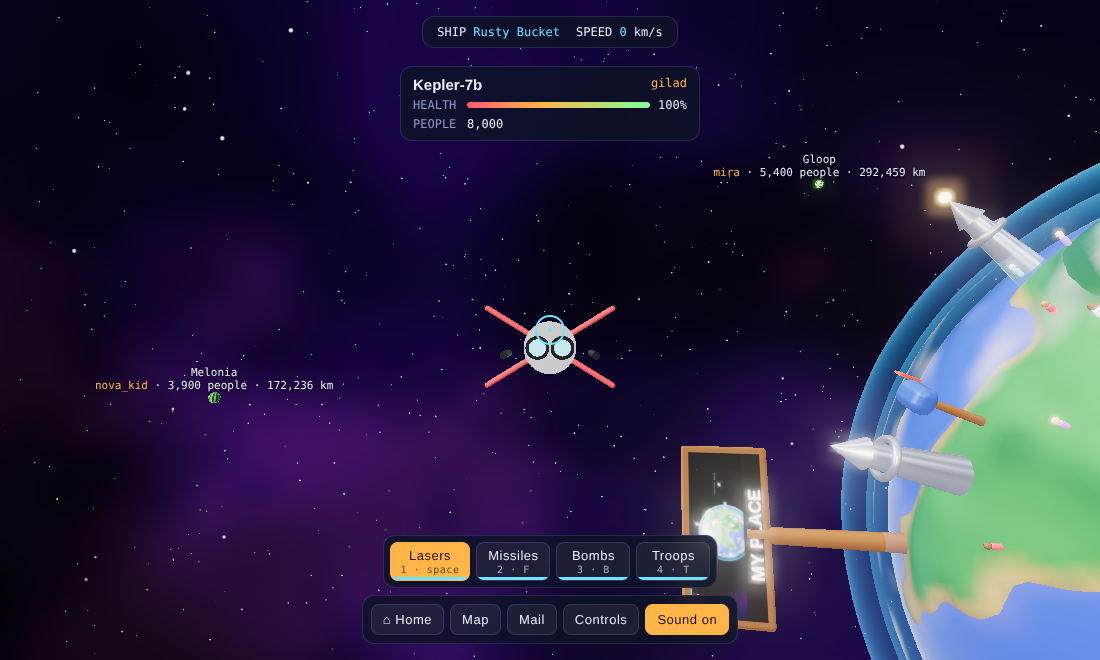
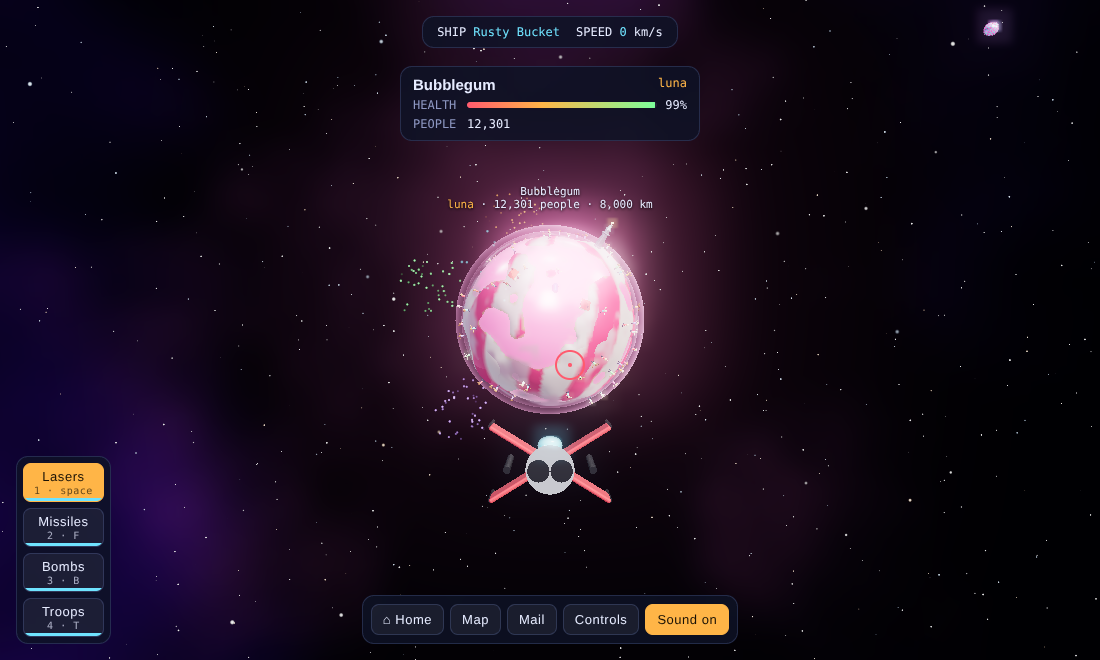
Ship higher on screen, weapons bar bottom-left, flight help on the right
Claude-Session: https://claude.ai/code/session_01C8YoLFqAawXFtS9Kv7wpoQ

diff --git a/game/index.html b/game/index.html
@@ -122,11 +122,11 @@ input[type=range] { width: 100%; accent-color: var(--accent); }
 #crosshair::after { inset: 13px; background: var(--cyan); border: none; }
 #crosshair.lock::before { border-color: var(--danger); }
 #crosshair.lock::after { background: var(--danger); }
-#weapons { left: 16px; right: 16px; margin-inline: auto; width: max-content; max-width: calc(100% - 32px); flex-wrap: wrap; justify-content: center; bottom: calc(72px + env(safe-area-inset-bottom, 0px)); padding: 6px; display: flex; gap: 6px; }
+#weapons { left: 16px; flex-direction: column; bottom: calc(16px + env(safe-area-inset-bottom, 0px)); padding: 6px; display: flex; gap: 6px; }
 #weapons button { position: relative; overflow: hidden; display: grid; gap: 1px; padding: 5px 10px; text-align: center; min-width: 74px; }
 #weapons button small { font: 10px var(--mono); color: inherit; opacity: .7; }
 #weapons .cd { position: absolute; left: 0; bottom: 0; height: 3px; background: var(--cyan); }
-#p-help { left: 16px; bottom: calc(80px + env(safe-area-inset-bottom, 0px)); width: 250px; }
+#p-help { right: 16px; bottom: calc(80px + env(safe-area-inset-bottom, 0px)); width: 250px; }
 .keys { display: grid; grid-template-columns: auto 1fr; gap: 4px 10px; font-size: 12px; }
 kbd { font: 11px var(--mono); padding: 1px 6px; border-radius: 4px; border: 1px solid var(--line); background: rgba(255,255,255,.06); justify-self: start; }
 #pad { position: fixed; z-index: 2; right: 16px; bottom: calc(140px + env(safe-area-inset-bottom, 0px)); display: none; grid-template-columns: repeat(2, 64px); gap: 6px; }
@@ -2063,7 +2063,7 @@ function flyStep(dt) {
   const boost = k("ShiftLeft") || k("ShiftRight"), size = state.ship.size, thrust = k("KeyW");
   // steering: the further the cursor is from the middle, the faster you turn toward it
   const dz = .05, axis = (v) => Math.sign(v) * Math.min(1, Math.max(0, Math.abs(v) - dz) / (1 - dz - .05));
-  const sx = axis(aimNdc.x), sy = axis(aimNdc.y + .18); // +.18: the ship sits low, so its "straight ahead" is a bit above it
+  const sx = axis(aimNdc.x), sy = axis(aimNdc.y);
   const keyYaw = (k("KeyA") || k("ArrowLeft") ? 1 : 0) - (k("KeyD") || k("ArrowRight") ? 1 : 0);
   const keyPitch = (k("ArrowDown") ? 1 : 0) - (k("ArrowUp") ? 1 : 0);
   const roll = (k("KeyE") ? 1 : 0) - (k("KeyQ") ? 1 : 0);
@@ -2088,9 +2088,9 @@ function flyStep(dt) {
   }
   // camera: behind and above, looking ahead, so the whole ship sits at the bottom-middle of the screen
   const L = ship.userData.len, dist = .5 + L * 3.6 + Math.min(.8, vel.length() / 200) * L * 2;
-  camera.position.copy(ship.position).addScaledVector(fwd, -dist).addScaledVector(headUp, dist * .32);
+  camera.position.copy(ship.position).addScaledVector(fwd, -dist).addScaledVector(headUp, dist * .22);
   camera.up.copy(headUp);
-  camera.lookAt(ship.position.clone().addScaledVector(fwd, dist * 2.2).addScaledVector(headUp, dist * .28));
+  camera.lookAt(ship.position.clone().addScaledVector(fwd, dist * 3.2).addScaledVector(headUp, dist * .2));
   camera.updateMatrixWorld();
   updateAim(); // after the camera moves, so shots go exactly under the cursor
   if ((firing && weapon === "laser") || k("Space")) fireWeapon("laser");
